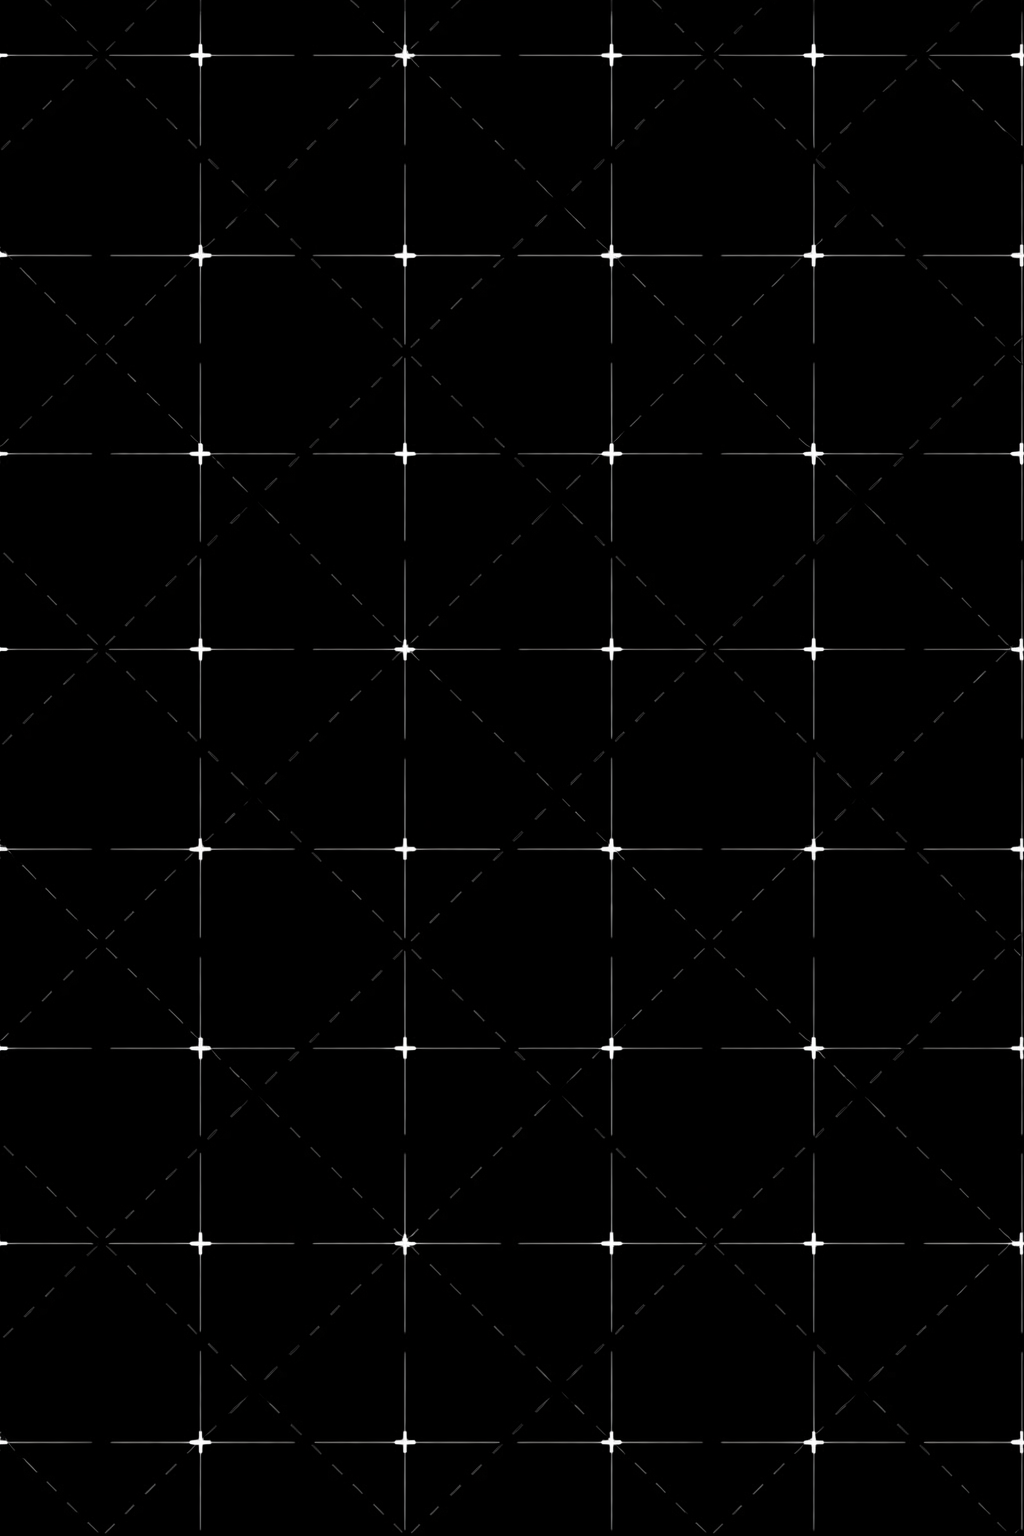
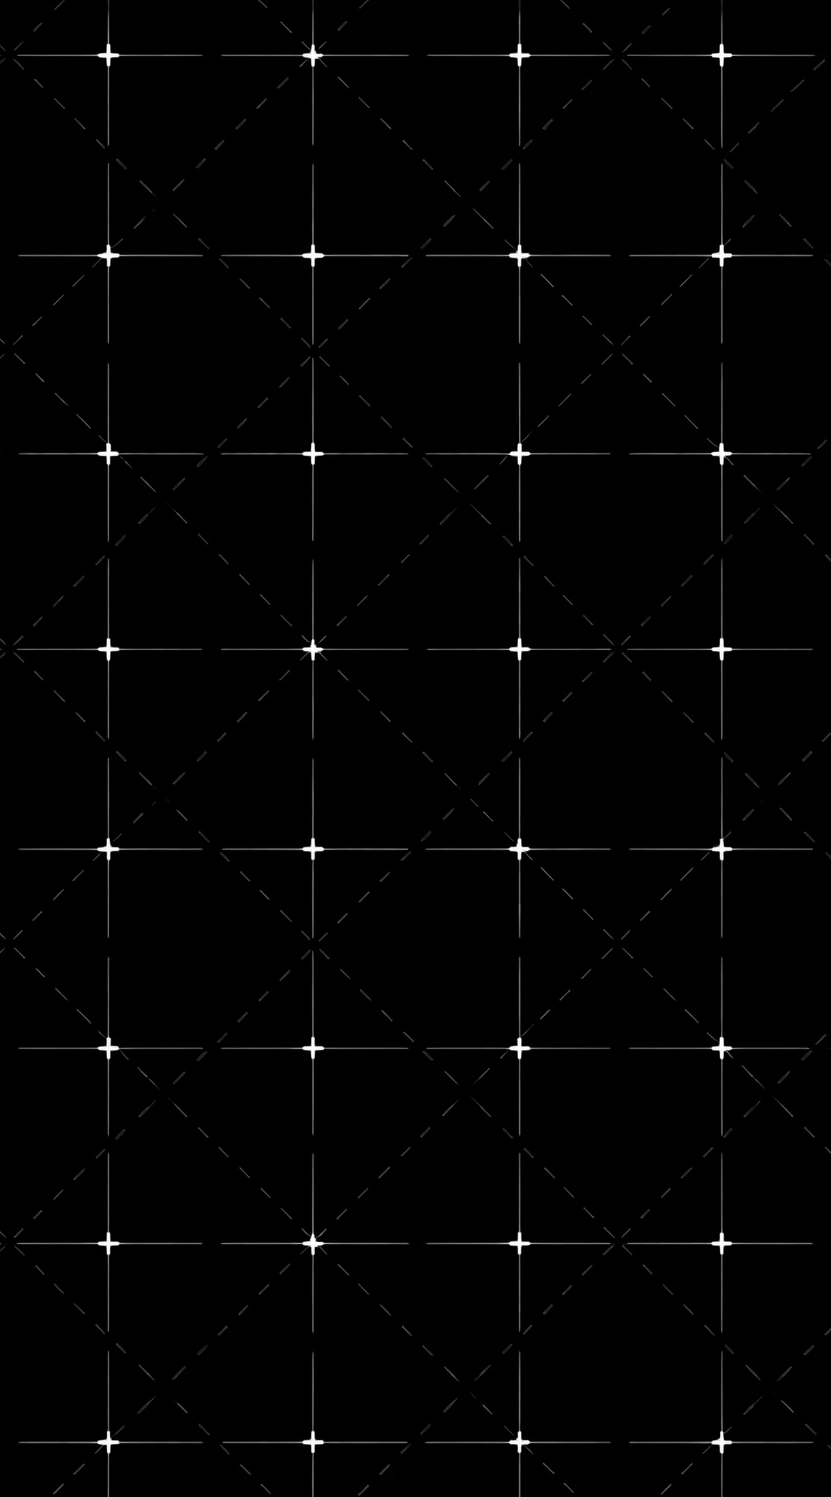
new commit

diff --git a/index.html b/index.html
@@ -14,7 +14,9 @@
 
 <body>
     <div class="container">
-        <div id="terminal"></div> <span class="cursor"></span>
+        <div id="terminal">
+            <img src="./assets/bg.png">
+        </div> <span class="cursor"></span>
         <script src="js/intro.js"></script>
     </div>
 </body>

diff --git a/css/terminal.css b/css/terminal.css
@@ -2,6 +2,11 @@
     position: relative;
     width: 330px;
     height: 100%;
-    background-image: url(../assets/bg.png);
-    background-position: center;
+}
+
+#terminal img {
+    position: fixed;
+    width: 100%;
+    height: 100%;
+    opacity: .5;
 }
